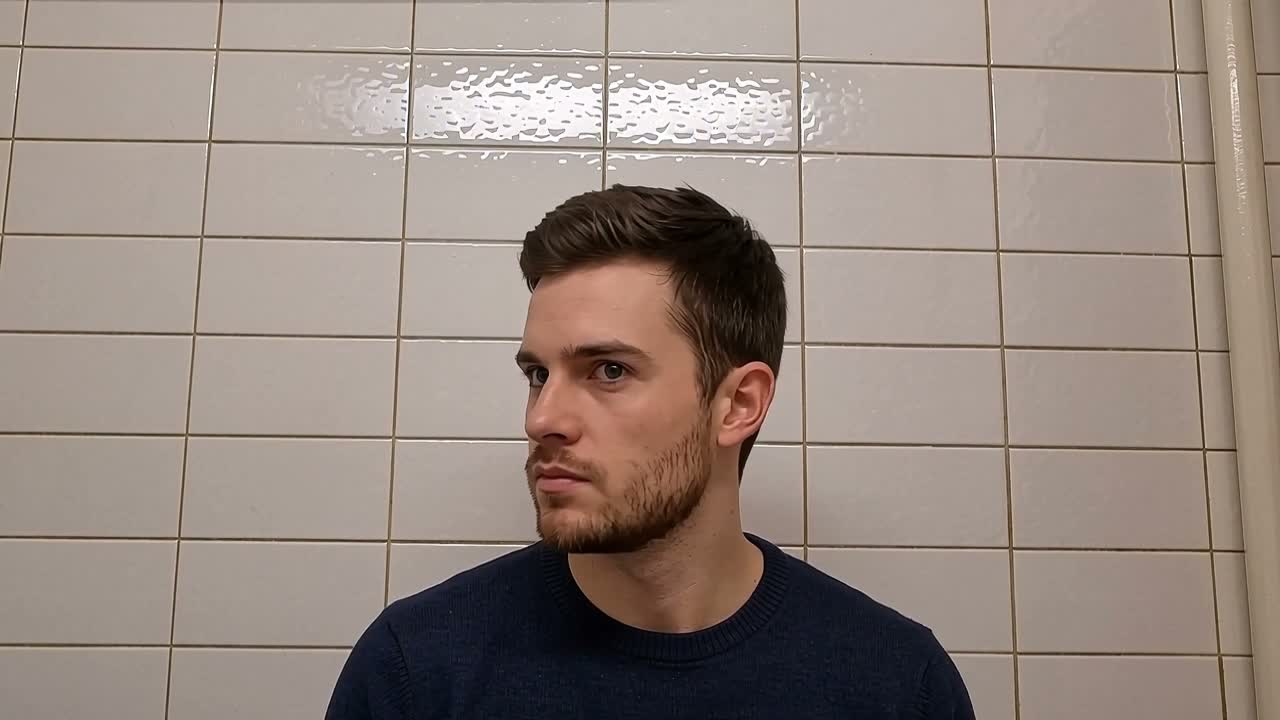
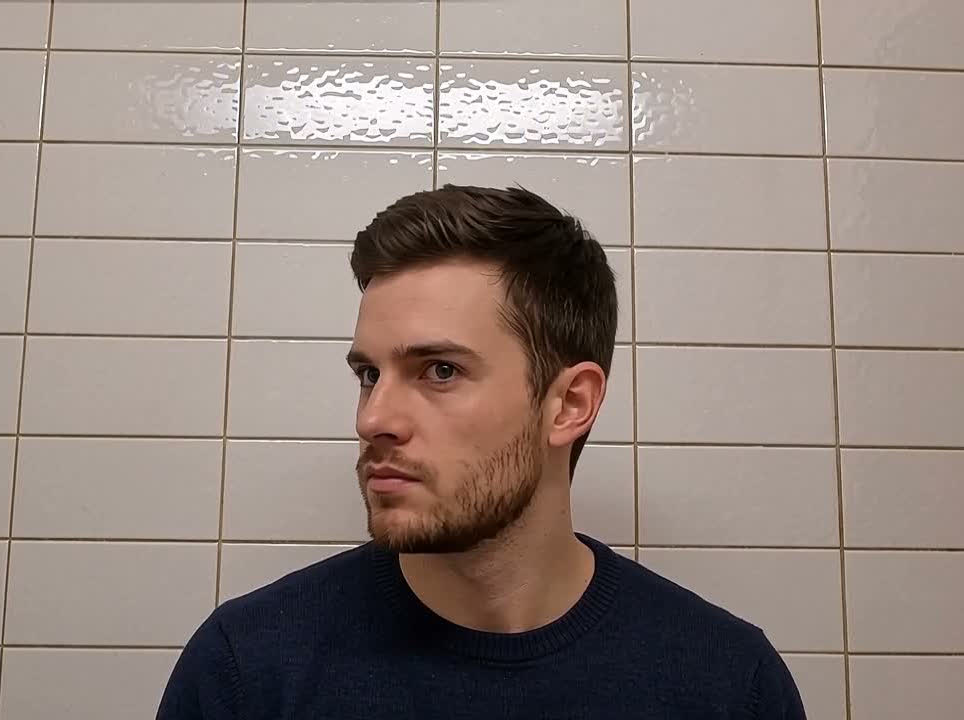
Fix broadcast issue

Changed region(s): [[0.0, 0.0, 1.0, 1.0], [0.4668, 0.8556, 0.4979, 0.8861], [0.3112, 0.3972, 0.3423, 0.4278]]

diff --git a/src/aifrb/commands/broadcast.py b/src/aifrb/commands/broadcast.py
@@ -34,12 +34,12 @@ def broadcast(
             "--pixel-format", "-f", help="Pixel format to use. (e.g., yuv420p, yuv422p)"
         ),
     ] = "yuv420p",
-    no_crop: Annotated[
+    portrait: Annotated[
         bool,
         typer.Option(
-            "--no-crop",
-            "-n",
-            help="Keep the original aspect ratio.",
+            "--portrait",
+            "-p",
+            help="Use portrait orientation.",
         ),
     ] = False,
 ):
@@ -64,7 +64,9 @@ def broadcast(
         )
         sys.exit(1)
 
-    if not no_crop:
+    if portrait:
+        ffmpeg_input = ffmpeg_input.filter("crop", "floor(ih*9/16/2)*2", "ih")
+    else:
         ffmpeg_input = ffmpeg_input.filter("crop", "min(iw,ih*4/3)", "min(ih,iw*3/4)")
 
     ffmpeg_input.filter("scale", OUT_WIDTH, OUT_HEIGHT).filter("fps", FPS).filter(